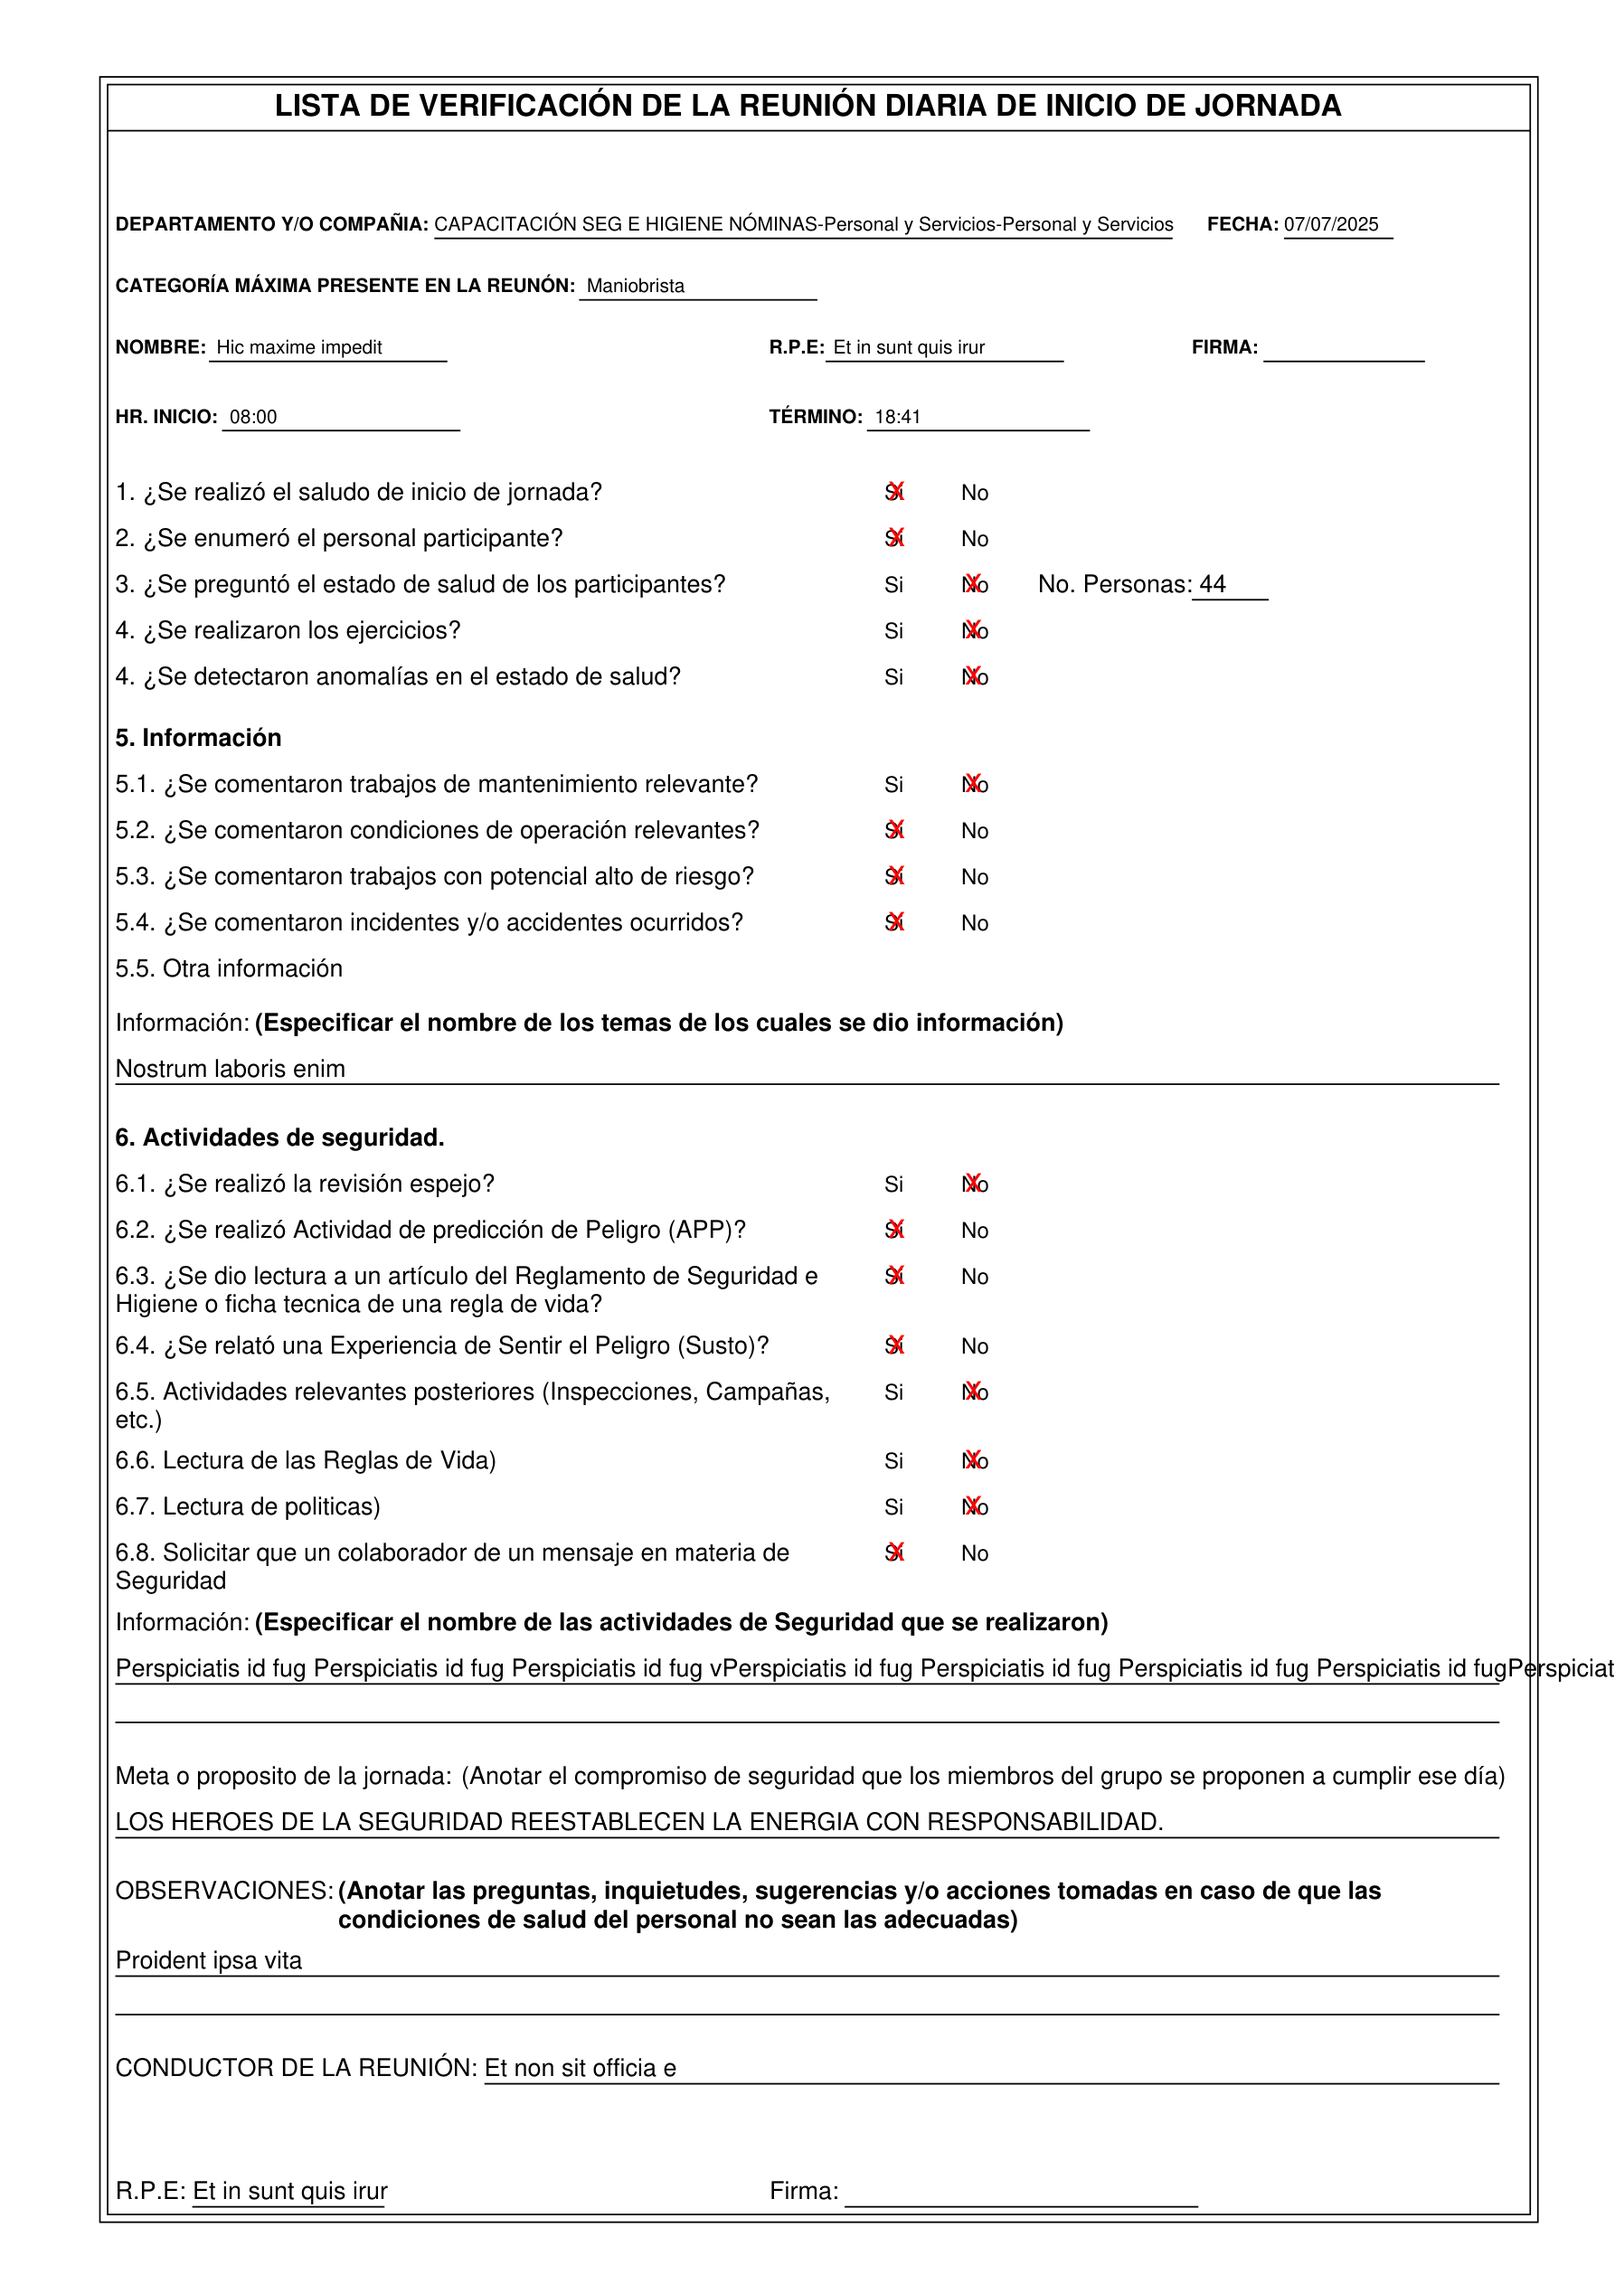
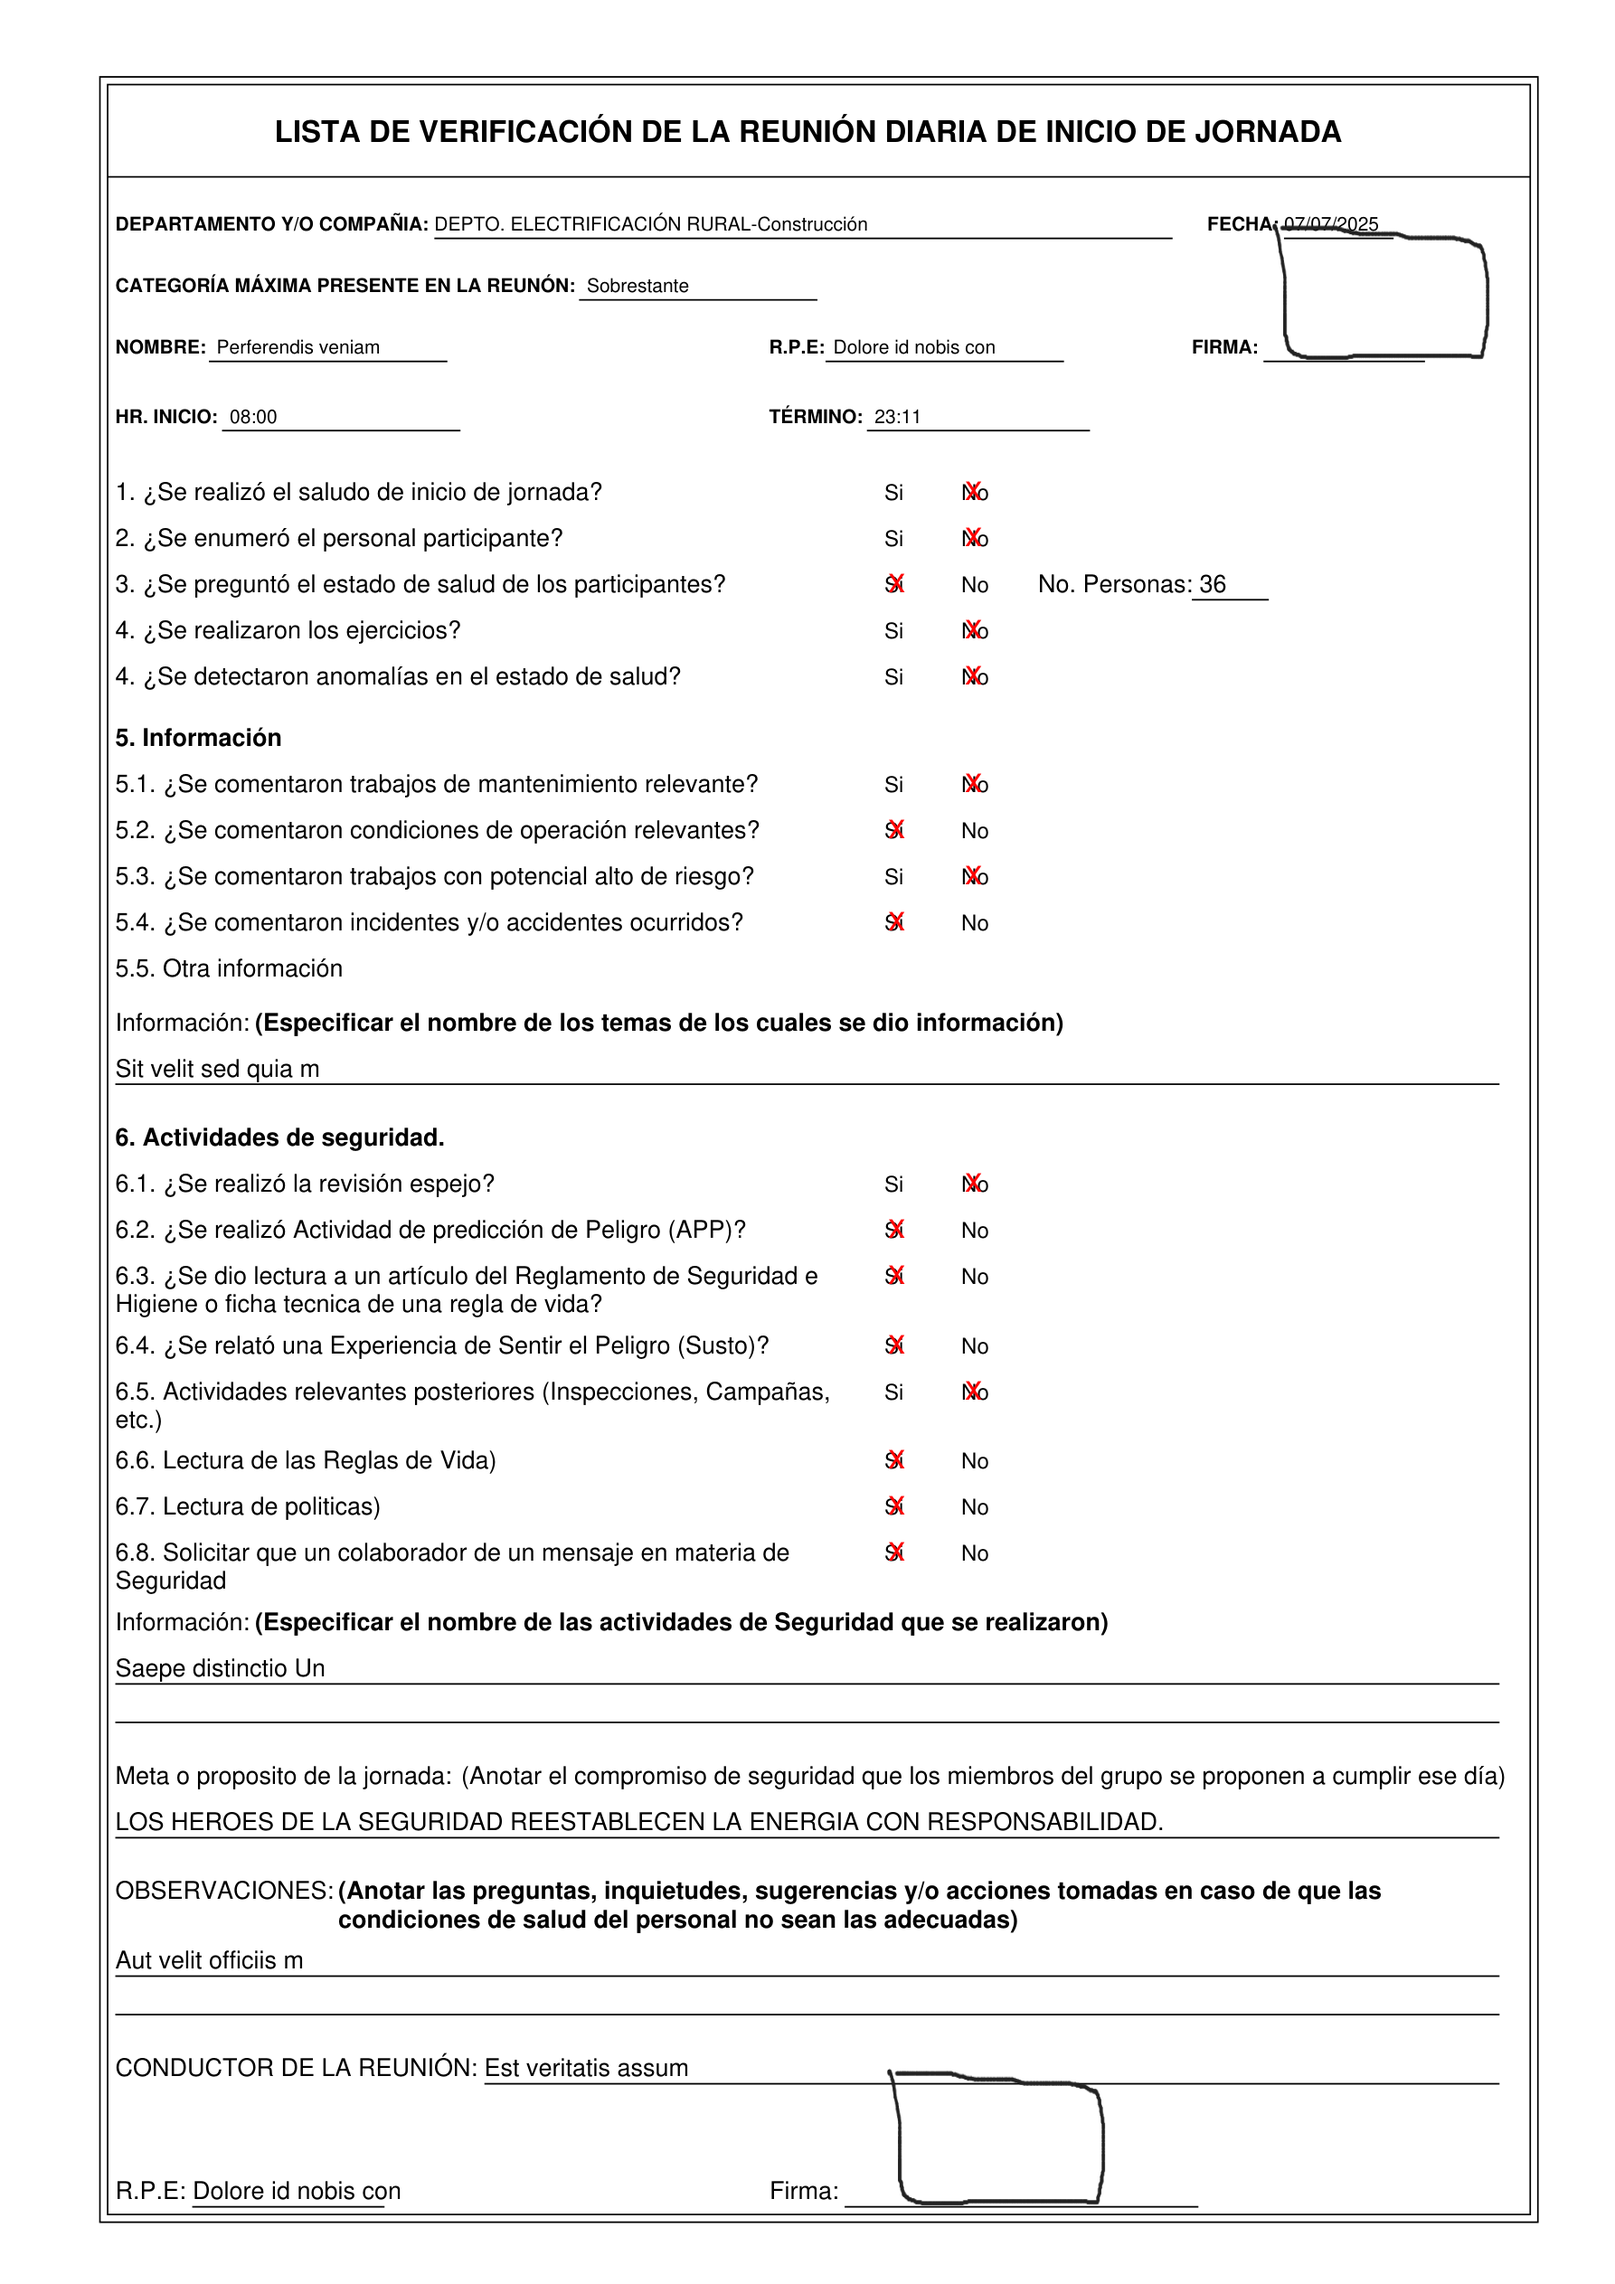
acomo de linea superior de rij pdf

diff --git a/RESOURCE/JS/formato_RIJ/pdf_rij.js b/RESOURCE/JS/formato_RIJ/pdf_rij.js
@@ -119,8 +119,8 @@ async function generarPDF() {
 
     doc.setFontSize(11);
     doc.setFont("helvetica", "bold");
-    doc.text("LISTA DE VERIFICACIÓN DE LA REUNIÓN DIARIA DE INICIO DE JORNADA", 105, 15, null, null, "center");
-    doc.line(14, 17 , 199, 17);
+    doc.text("LISTA DE VERIFICACIÓN DE LA REUNIÓN DIARIA DE INICIO DE JORNADA", 105, 18.5, null, null, "center");
+    doc.line(14, 23 , 199, 23);
 
     // DATOS GENERALES
     y = 30;
